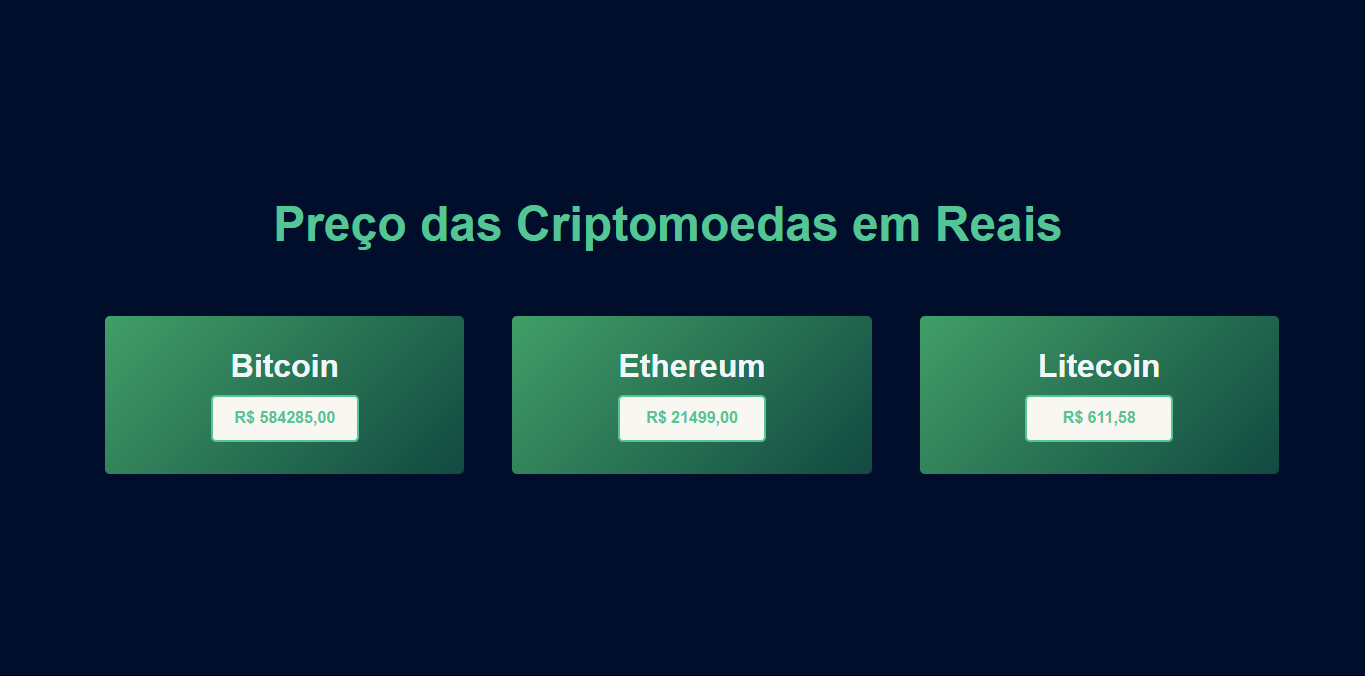
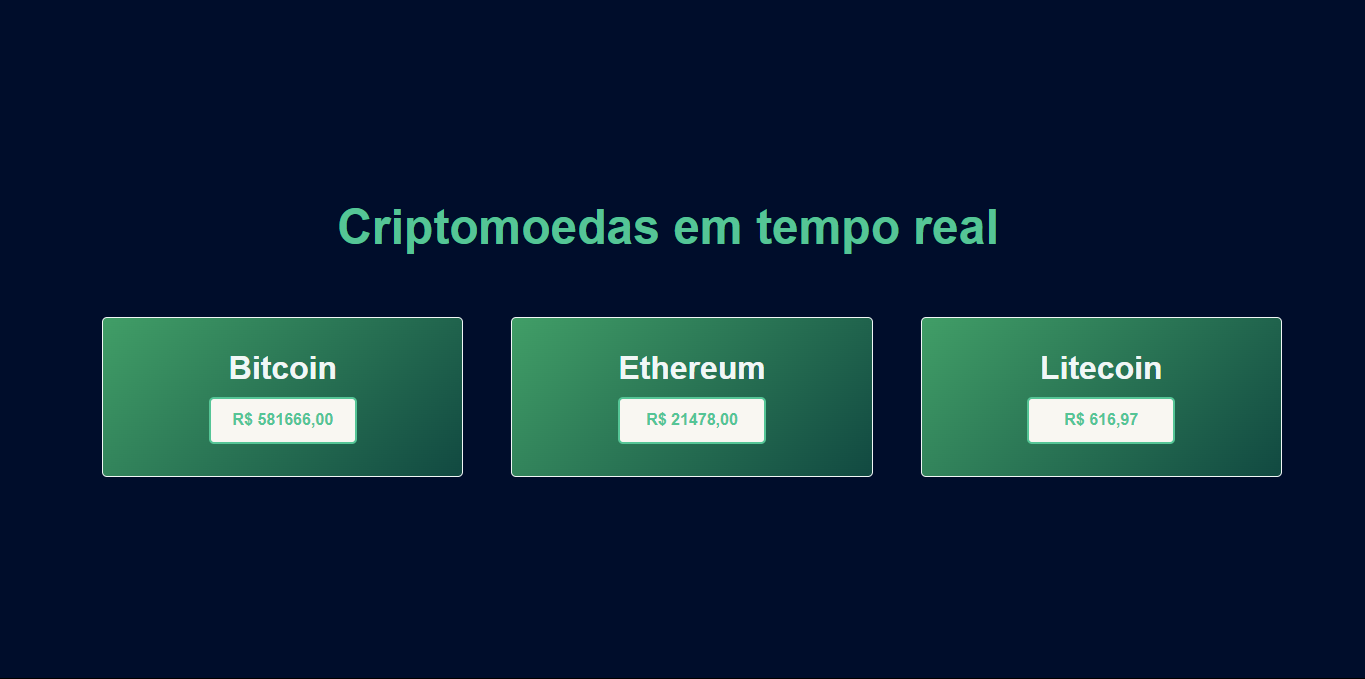
alterando html + adicionando estilo

diff --git a/index.html b/index.html
@@ -7,21 +7,21 @@
   <link rel="stylesheet" href="style.css">
 </head>
 <body>
-  <h1>Preço das Criptomoedas em Reais</h1>
+  <h1>Criptomoedas em tempo real</h1>
   <div class="menu">
     <section class="box" id="bitcoin">
       <p class="nome">Bitcoin</p>
-      <p class="mostrar-valor">R$ 0,00</p>
+      <p class="mostrar-valor">Loading...</p>
     </section>
 
     <section class="box" id="ethereum">
       <p class="nome">Ethereum</p>
-      <p class="mostrar-valor">R$ 0,00</p>
+      <p class="mostrar-valor">Loading...</p>
     </section>
 
     <section class="box" id="litecoin">
       <p class="nome">Litecoin</p>
-      <p class="mostrar-valor">R$ 0,00</p>
+      <p class="mostrar-valor">Loading...</p>
     </section>
   </div>
 

diff --git a/style.css b/style.css
@@ -45,6 +45,7 @@ section{
   background: linear-gradient(135deg, #419e67 0%, #114941 100%);
   text-align: center;
   border-radius: 5px;
+  border: 1px solid #f1f7f6;
 }
 
 .box p.nome{
@@ -65,4 +66,29 @@ section{
   border: 2px solid #55c596 ;
   border-radius: 5px;
   font-weight: bold;
+}
+
+@media (max-width: 700px){
+  body{
+    min-height: 50vh;
+    text-align: center;
+  }
+  h1{
+    font-size: 3rem;
+    margin-bottom: 10vh;
+    margin-top: 7vh;
+  }
+  
+  .menu{
+    grid-template-columns: 1fr;
+  }
+
+  .menu > *{
+    padding: 1rem;
+  }
+
+  .menu, .box{
+    grid-column: 1;
+    grid-gap: 10px;
+  }
 }
